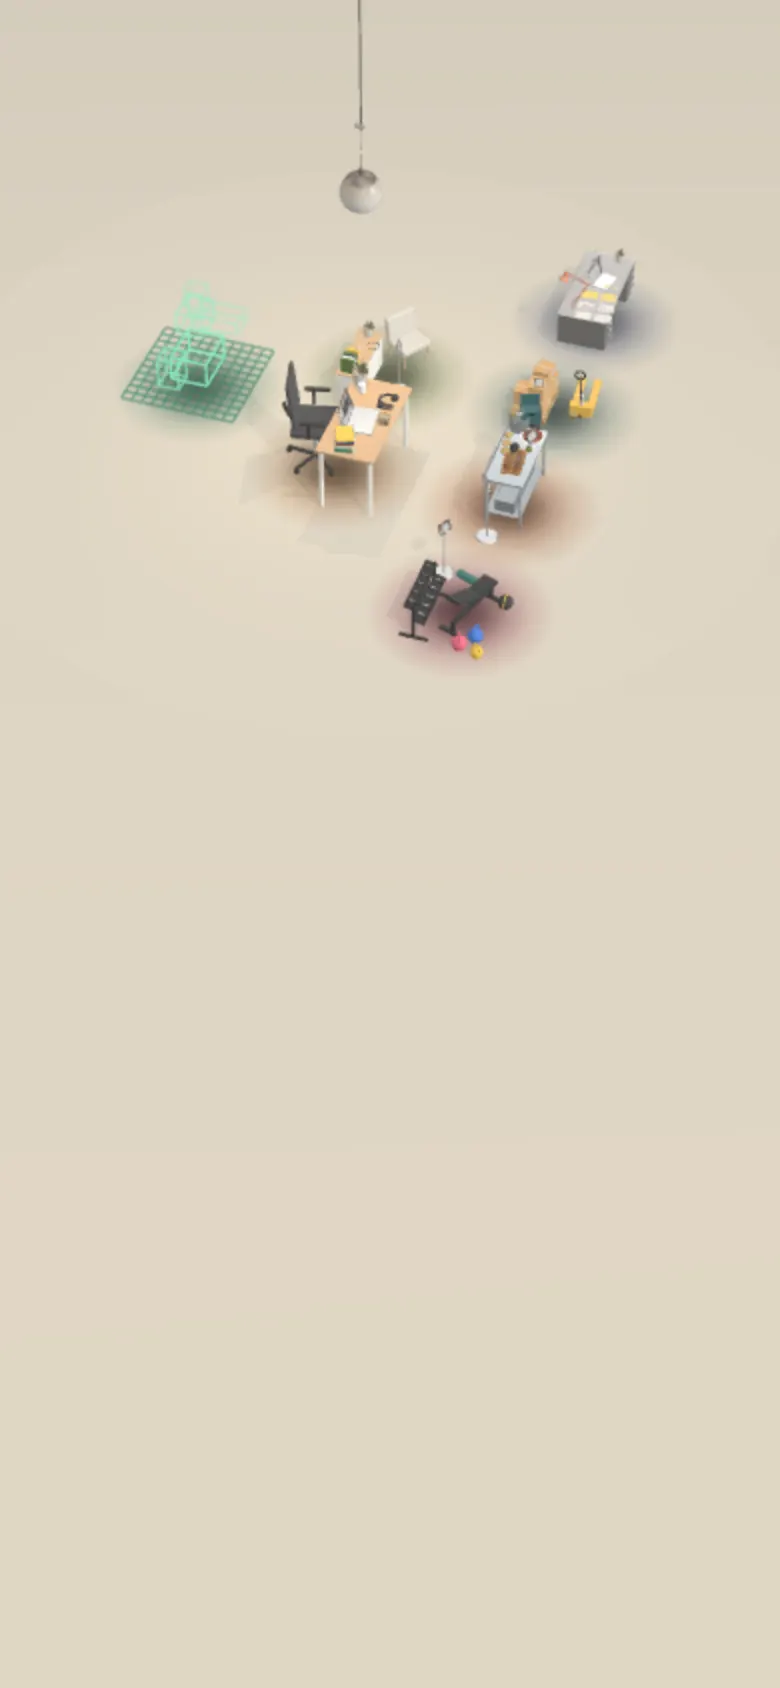
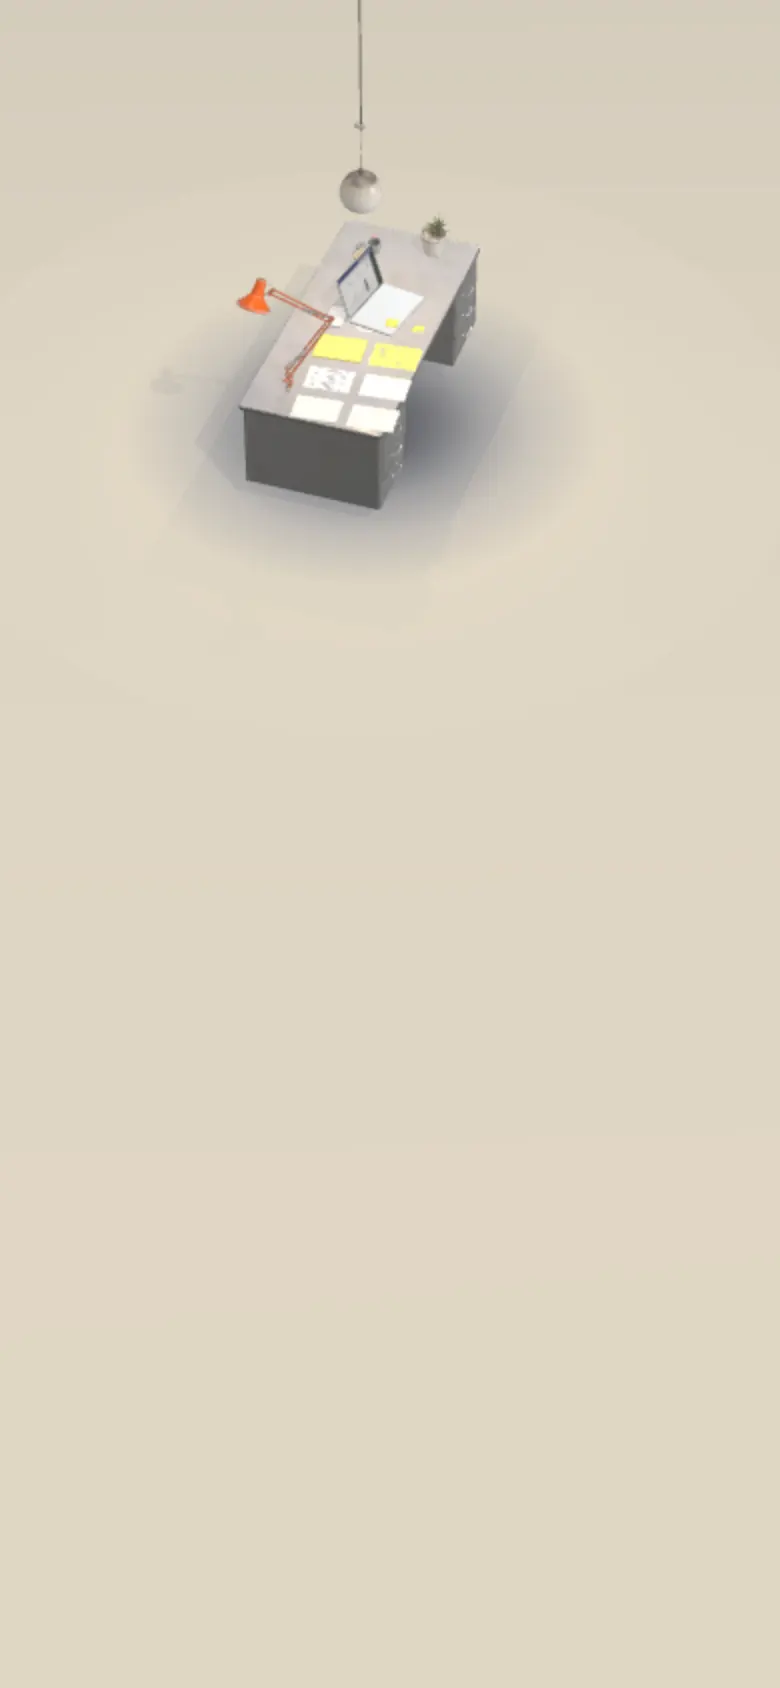
Hero: one system at a time; it scatters and the next gathers in its place, in step with the rotating word

Changed region(s): [[0.1538, 0.1232, 0.8615, 0.4005]]

diff --git a/src/three/Showroom.tsx b/src/three/Showroom.tsx
@@ -210,6 +210,10 @@ function shiftFor(layout: View['layout'], mobile: boolean): [number, number] {
 }
 
 const ease = (t: number) => t * t * (3 - 2 * t)
+/** Seconds a system takes to gather (or scatter) in the opening view. */
+const SWAP_S = 0.9
+/** How much bigger the single system is in the opening view than at its stop. */
+const HERO_SCALE = 2.7
 
 /* ---------- the lamp that hangs over the gallery and follows the visitor ---------- */
 function useLamp(scenes: Record<string, THREE.Object3D>) {
@@ -466,7 +470,7 @@ function Stations({ interactive, fixedStop, reduced, onLamp }: { interactive: bo
   const lamp = useLamp(scenes)
   useEffect(() => onLamp(lamp), [lamp, onLamp])
 
-  const { groups, outers } = useMemo(() => {
+  const { groups, outers, parts } = useMemo(() => {
     const groups: THREE.Group[] = []
     const outers = STATIONS.map((_, i) => {
       const g = buildStation(i, scenes)
@@ -478,23 +482,62 @@ function Stations({ interactive, fixedStop, reduced, onLamp }: { interactive: bo
       outer.add(ground(tourStops[i].color), g)
       return outer
     })
-    return { groups, outers }
+    // every piece of every station remembers its resting place, so it can fly off and come back
+    const parts = groups.map((g) =>
+      g.children[0].children.map((o, k, all) => {
+        const a = k * 2.399 + 0.7
+        return {
+          o,
+          p: o.position.clone(),
+          r: o.rotation.clone(),
+          s: o.scale.clone(),
+          dir: new THREE.Vector3(Math.sin(a), 0.55 + (k % 3) * 0.25, Math.cos(a)).multiplyScalar(1.1 + (k % 2) * 0.5),
+          spin: (k % 2 ? 1 : -1) * (1.6 + k * 0.35),
+          d: all.length > 1 ? k / (all.length - 1) : 0,
+        }
+      }),
+    )
+    return { groups, outers, parts }
   }, [scenes])
   const shown = useRef(STATIONS.map(() => 1))
+  // 1 = assembled, 0 = scattered
+  const built = useRef<number[]>(STATIONS.map((_, i) => (i === 0 ? 1 : 0)))
 
   useFrame((state, delta) => {
     const dt = Math.min(0.05, delta)
     const k = 1 - Math.exp(-dt * 9)
     const pos = fixedStop ?? tour.pos
     const time = reduced ? 0 : state.clock.elapsedTime
+    const inHero = pos < 0.5
+    // the next system waits until the previous one has mostly scattered
+    const leaving = built.current.some((v, j) => j !== tour.heroIdx && v > 0.35)
     groups.forEach((g, i) => {
-      // In the overview every system shows; on a stop only the one in view stays.
-      const want = Math.max(Math.min(1, Math.max(0, 1 - pos)), Math.max(0, 1 - Math.abs(pos - (i + 1)) * 1.4))
+      const atStop = Math.max(0, 1 - Math.abs(pos - (i + 1)) * 1.4)
+      const isHero = i === tour.heroIdx
+      // Opening view: one system at a time, centred under the lamp. It scatters and the next gathers in its place.
+      const aim = inHero ? (isHero ? (leaving && !reduced ? built.current[i] : 1) : 0) : atStop > 0 ? 1 : 0
+      const step = dt / SWAP_S
+      built.current[i] = reduced ? aim : built.current[i] + Math.max(-step, Math.min(step, aim - built.current[i]))
+      const a = built.current[i]
+      const centred = pos < 1 && (isHero || (inHero && a > 0.01))
+      const b = centred ? ease(Math.min(1, Math.max(0, 1 - pos))) : 0
+      const want = Math.max(centred ? Math.max(0, 1 - pos) : 0, atStop)
       shown.current[i] = reduced ? want : shown.current[i] + (want - shown.current[i]) * (1 - Math.exp(-dt * 5))
       const v = shown.current[i]
       const e = v * v * (3 - 2 * v)
-      outers[i].scale.setScalar(Math.max(0.001, e))
-      outers[i].visible = e > 0.01
+      const sp = spotPos(i)
+      outers[i].position.set(sp.x * (1 - b), 0, sp.z * (1 - b))
+      outers[i].scale.setScalar(Math.max(0.001, e * (1 + (HERO_SCALE - 1) * b)))
+      outers[i].visible = e > 0.01 && a > 0.001
+      outers[i].children[0].scale.setScalar(Math.max(0.001, a))
+      for (const q of parts[i]) {
+        const lp = Math.min(1, Math.max(0, (a - 0.4 * q.d) / 0.6))
+        const f = 1 - lp
+        const ee = 1 - f * f * f
+        q.o.position.copy(q.p).addScaledVector(q.dir, 1 - ee)
+        q.o.rotation.set(q.r.x + q.spin * 0.4 * (1 - ee), q.r.y + q.spin * (1 - ee), q.r.z)
+        q.o.scale.copy(q.s).multiplyScalar(Math.max(0.001, ee))
+      }
       const lift = interactive && hover === i && tour.pos < 0.3 ? 0.22 : 0
       g.position.y += (lift - g.position.y) * k
       const focus = Math.max(0, 1 - Math.abs(pos - (i + 1)))

diff --git a/src/components/Rotator.tsx b/src/components/Rotator.tsx
@@ -1,4 +1,8 @@
 import { useEffect, useState } from 'react'
+import { tour } from '../three/tourState'
+
+/** How long each system holds in the opening view; the 3D swap follows the same beat. */
+export const ROTATE_MS = 3600
 
 /**
  * A headline word that changes every couple of seconds, each in its own colour.
@@ -8,9 +12,13 @@ export function Rotator({ words, colors, run, reduced }: { words: string[]; colo
   const [i, setI] = useState(0)
   useEffect(() => {
     if (!run || reduced) return
-    const id = window.setInterval(() => setI((n) => (n + 1) % words.length), 2200)
+    const id = window.setInterval(() => setI((n) => (n + 1) % words.length), ROTATE_MS)
     return () => window.clearInterval(id)
   }, [run, reduced, words.length])
+  // the 3D scene shows the same system as the word
+  useEffect(() => {
+    tour.heroIdx = i
+  }, [i])
   const prev = (i - 1 + words.length) % words.length
   return (
     <span className="w rot-wrap" style={{ ['--i' as string]: 2 }}>

diff --git a/src/three/tourState.ts b/src/three/tourState.ts
@@ -12,5 +12,7 @@ export const tour = {
   /** Set by the page so a click on a pedestal in the overview can jump to that system. */
   /** When the opening (lamp drops in and switches on) started, in performance.now() ms. null = not yet */
   introAt: null as null | number,
+  /** Which system the opening view shows; follows the rotating word in the headline. */
+  heroIdx: 0,
   onPick: null as null | ((index: number) => void),
 }
